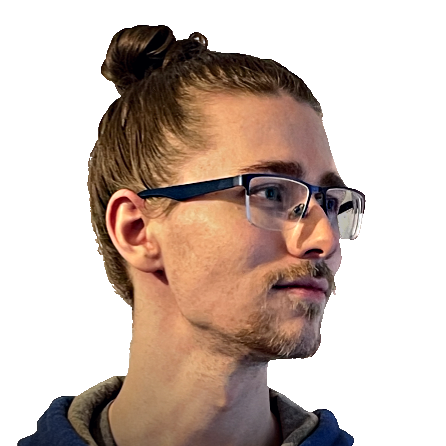
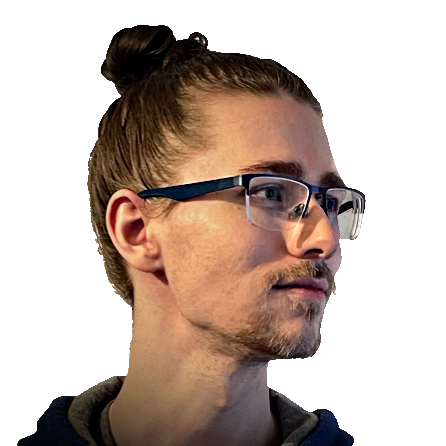
updated portrait

diff --git a/index.html b/index.html
@@ -51,7 +51,7 @@
                     <p>FFXIV addict</p>
                 </div>
                 <!-- Portrait -->
-                <img src="./Images/face2.png" alt="face" class="face">
+                <img src="./Images/face.png" alt="face" class="face">
                 <!-- Pitch -->
                 <div class="content contentnorsk">
                     <h2 class="about">Om meg</h2>

diff --git a/styles.css b/styles.css
@@ -91,6 +91,7 @@ text-shadow: 0px 4px 3px rgba(0,0,0,0.4),
 }
 /* Portrait */
 .face {
+    background: hsla(0, 0%, 0%, 0.5);
     display: flex;
     width: 15%;
     margin: 5% auto 0 auto;
